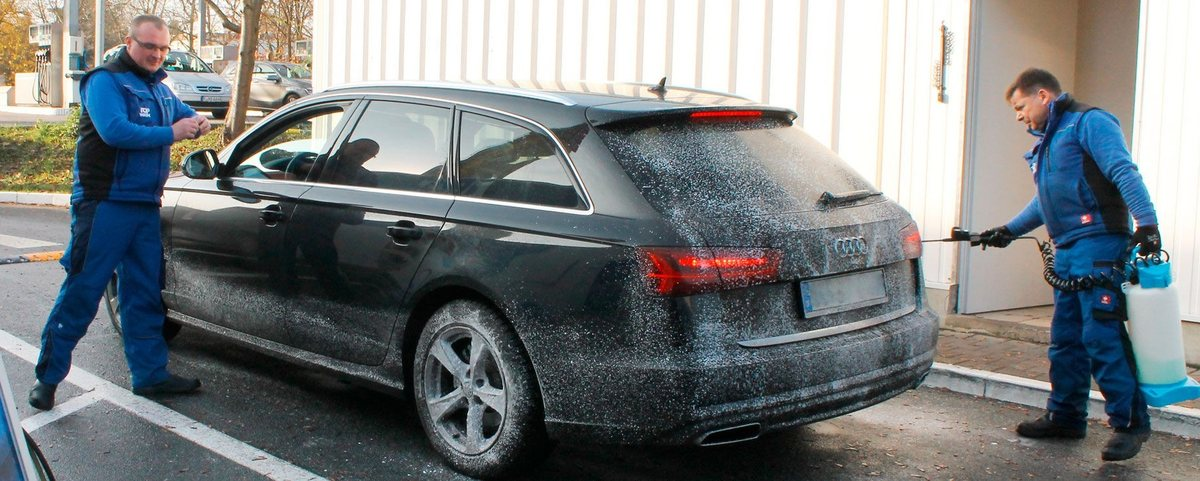
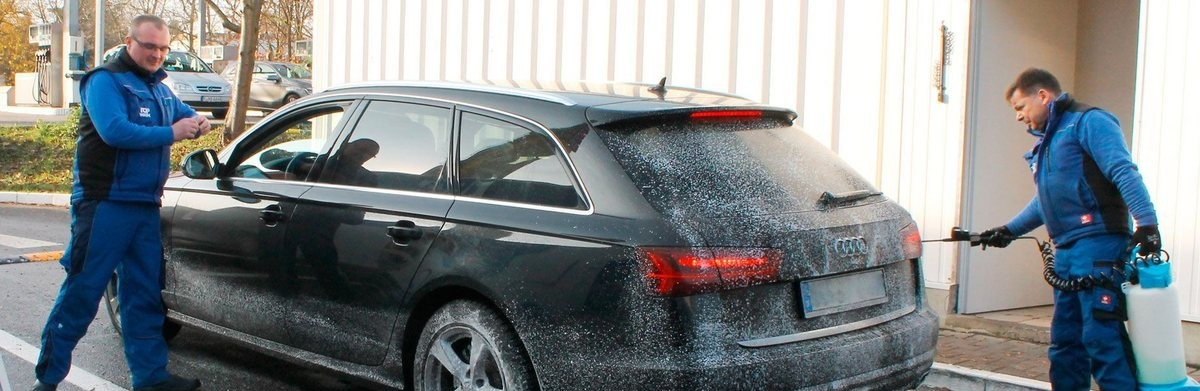
Hero-Bild vorbehandlung-aussen.jpg: Bildschirmfoto-Artefakt weggeschnitten
Nutzer meldete per Mobil-Screenshot ein gesprenkeltes Moiré-Muster im
unteren Bildbereich (Asphalt unterhalb des Fahrzeugs), erkennbar als
Bildschirmfotografie statt Originaldatei. Artefakt war auf die
untersten 90 der 481 Bildzeilen begrenzt -- diese entfernt
(1200x481 -> 1200x391), Rest des Fotos unverändert. Unkritisch für
den Hero-Slider, da object-cover in festem Container jedes
Seitenverhältnis handhabt.

diff --git a/CLAUDE-BRIEFING.md b/CLAUDE-BRIEFING.md
@@ -93,3 +93,4 @@ Alle während der Umsetzung gemachten Fehler hier unten fortlaufend eintragen (V
 - **Nachgereichter Artikeltext als neuer Blogbeitrag umgesetzt — „Testsieger"-Behauptung vor Veröffentlichung per `AskUserQuestion` geprüft und vorerst entfernt**: Nutzer schickte den in einem vorherigen PR angekündigten, fertig formulierten Werbetext („Glanz und Werterhalt durch professionelle Autopflege bei TOP WASH") nach. Da der Text vom Auftraggeber selbst für dieses Projekt verfasst/beauftragt wurde (nicht von der echten top-wash.de kopiert), gilt hier nicht die sonst übliche Pflicht zur Neuformulierung aus Copyright-Gründen — wohl aber weiterhin die Pflicht, Tatsachenbehauptungen zu prüfen. Der Satz „TOP WASH eine Lösung in Testsieger-Qualität" behauptet einen konkreten, benennbaren Test/eine Auszeichnung, ohne eine Quelle zu nennen — eine unbelegte „Testsieger"-Aussage ist in Deutschland potenziell irreführende Werbung (UWG) und damit ein echtes rechtliches Risiko für den echten Geschäftsbetrieb, nicht nur eine Stilfrage. Vor der Veröffentlichung per `AskUserQuestion` nachgefragt, ob eine konkrete Quelle existiert. Nutzer bestätigte, dass es eine gibt, wollte sie aber separat nachreichen. Da die Quelle zum Zeitpunkt der Veröffentlichung noch nicht vorlag, wurde die „Testsieger"-Formulierung durch die unverfängliche Formulierung „Premiumqualität" ersetzt statt die Behauptung unbelegt zu veröffentlichen und später zu korrigieren — im README als offener Punkt markiert, sobald die Quelle vorliegt kann „Testsieger" mit Beleg (Name, Jahr, Aussteller) ergänzt werden. Die übrigen Fakten (Ablauf, Standorte, vier SB-Waschboxen in Bad Nauheim) wurden gegen bereits im Repo bestätigte Fakten geprüft, waren konsistent bzw. wurden vom Auftraggeber direkt als neue Fakten bestätigt (Anzahl SB-Waschboxen war bisher nicht beziffert — jetzt sowohl im neuen Beitrag als auch rückwirkend im bestehenden `blog/sb-waschplaetze-bad-nauheim.html` ergänzt, für Konsistenz zwischen beiden Seiten). Neuer Beitrag `blog/glanz-werterhalt-autopflege.html` nach dem Muster von `die-top-wash-formel.html` angelegt (OG-Tags, `BlogPosting`-JSON-LD, Cross-Links zu den bereits bestehenden Lotus- und SB-Waschboxen-Beiträgen). Der in einem vorherigen PR offen gelassene „Vorschau-Artikel im Header-Bereich"-Wunsch damit erfüllt: der Hero-Teaser-Link auf `index.html` (bisher auf den Pillar-Beitrag zeigend) wurde auf den neuen, jetzt aktuelleren Beitrag umgestellt; im Pillar-Beitrag selbst dafür ein Rücklink auf den neuen Beitrag ergänzt, damit der bisherige Pillar-Beitrag trotz getauschtem Hero-Teaser weiterhin von der Startseite aus über einen Klick erreichbar bleibt. `sitemap.xml` ergänzt. Lehre: bei einer vom Auftraggeber selbst gelieferten Werbeaussage die inhaltliche Prüfungspflicht (insb. beweispflichtige Werbe-Superlative wie „Testsieger", „Nr. 1", „meistverkauft") nicht mit der Herkunftsprüfung (Copyright/Verbatim-Kopie) verwechseln — beide sind unabhängig voneinander zu prüfen, auch wenn der Text vom Kunden selbst kommt.
 - **Testsieger-Quelle nachgereicht: 2 Screenshots der echten top-wash.de-Seite — Anspruch präzisiert statt pauschal übernommen**: Nutzer schickte als Beleg für die zuvor zurückgestellte „Testsieger"-Aussage zwei Screenshots der echten, live top-wash.de-Seite (URL-Leiste sichtbar): ein rotes Banner „hr Testsieger — Test „Textile Autowaschstraßen" April 2016" und ein gelbes Banner „ADAC — Test Waschstraßen — TOP WASH: GUT" (Jahr für den ADAC-Test laut Nutzer nicht bekannt/nicht auf dem Screenshot sichtbar). Wichtig beim Einbauen: die zwei Auszeichnungen sind NICHT austauschbar — nur der hr-Test verwendet das Wort „Testsieger" (1. Platz), der ADAC-Banner zeigt lediglich die Note „GUT", nicht „Sieger". Beim Einbau in `blog/glanz-werterhalt-autopflege.html` entsprechend differenziert formuliert („wurde TOP WASH Testsieger" nur für den hr-Test mit Datum, „mit der Note „Gut" bewertet" für den ADAC-Test ohne Jahr) statt beide pauschal als „Testsieger" zusammenzufassen. Beim Recherchieren der bestehenden Seite festgestellt: „hr Testsieger „Textile Autowaschstraßen"" und „ADAC Test Waschstraßen: GUT" waren bereits an mehreren Stellen im Repo bestätigt und live (Hero-Badges auf `index.html`, VERTRAUEN-Sektion auf `angebote.html`, Meta-Description) — nur das genaue Datum (April 2016) für den hr-Test war neu. Der zuvor zurückgestellte „Testsieger"-Absatz in `glanz-werterhalt-autopflege.html` durch einen eigenen Abschnitt „Ausgezeichnete Qualität" mit beiden korrekt zugeordneten Auszeichnungen ersetzt; README-Eintrag von „offener Punkt vor Livegang" auf „gelöst" aktualisiert. Bewusst NICHT umgesetzt: eine grafische Nachbildung der „hr Testsieger"- und „ADAC"-Banner-Grafiken (wie auf den Screenshots zu sehen) — das wären fremde Marken/Logos (hr, ADAC), deren Nutzungsrechte für diesen Rebuild nicht bestätigt sind; stattdessen bewusst nur die Tatsachenbehauptung in Textform verwendet, wie es die bereits bestehenden Text-Badges auf `index.html`/`angebote.html` auch schon tun. Lehre: bei zwei ähnlichen, aber unterschiedlichen Auszeichnungen (Testsieger vs. Testnote) nicht vereinfachend zusammenfassen — jede Auszeichnung braucht ihre eigene, exakt zutreffende Formulierung, sonst wird aus einer korrekten Einzelaussage eine übertriebene Gesamtaussage.
 - **14 Piktogramme „Vor der Einfahrt: bitte beachten" als neue Startseiten-Sektion eingebaut**: Nutzer übergab fertigen Inline-SVG-Code für 14 Fahrzeug-Vorbereitungs-Piktogramme (Scheibenwischer aus, Assistenzsysteme aus, Antenne einfahren, Tankklappe schließen, Dachträger entfernen, Fenster/Schiebedach geschlossen, Außenspiegel einklappen, Gang „N", Handbremse lösen, Nicht bremsen, Lenkrad nicht festhalten, Motor nicht ausschalten, Vorschäden/Hochglanzfelgen melden) mit Verweis auf einen Bereich „Vor der Einfahrt: bitte beachten". Vor dem Einbau geprüft, ob bereits vergleichbarer Inhalt existiert: `agb.html` § 3 „Mitwirkungspflichten des Kunden" enthält bereits eine rechtlich formulierte 4-Punkte-Liste mit denselben Kerninhalten (lose Anbauteile entfernen, Fenster/Schiebedach schließen, Spiegel einklappen, Vorschäden melden) — die neuen 14 Piktogramme sind eine detailliertere, bildbasierte Ergänzung dafür, kein Widerspruch, da sie inhaltlich konsistent sind (nur granularer). Als neue Sektion `#vor-der-einfahrt` auf `index.html` zwischen den bestehenden „3 Vorteile"-Kacheln und der „So läuft Ihre Wäsche ab"-Sektion eingefügt (Kacheln-Grid, 2–7 Spalten je nach Breite, jedes Icon mit kurzer Textbeschriftung, da reine Piktogramme ohne Label nicht barrierefrei/eindeutig genug wären). SVG-Code unverändert aus der Nutzer-Vorlage übernommen (Farben #000/#e00 wie vom Nutzer definiert beibehalten, nicht ans Marken-Blau angepasst, da es sich um eine funktionale Warnfarben-Konvention handelt, keine reine Stilfrage). Anker-Verlinkung ergänzt: `agb.html`s § 3 bekam eine `id="mitwirkungspflichten"`, die neue Sektion verlinkt von dort „vollständige Regelungen"; umgekehrt verlinkt die bestehende FAQ-Frage „Muss ich während der Wäsche im Fahrzeug sitzen bleiben?" jetzt auf die neue Checkliste. `#vor-der-einfahrt` zur `scroll-margin-top`-Anker-Liste ergänzt (gleiche sticky-Header-Korrektur wie die übrigen Startseiten-Sektionen). Mit Playwright verifiziert: alle 14 SVGs rendern, Anker-Navigation von FAQ und AGB funktioniert. Lehre: bevor ein vom Nutzer geliefertes Inhalts-Paket unreflektiert als komplett neue Sektion eingefügt wird, erst prüfen, ob es bereits eine inhaltlich verwandte Stelle im Repo gibt (hier: AGB § 3) — nicht um Duplikate zu vermeiden, sondern um sicherzustellen, dass beide Stellen sich ergänzen statt zu widersprechen, und um sie ggf. zu verlinken.
+- **Hero-Bild `vorbehandlung-aussen.jpg` unten zugeschnitten — sichtbares Bildschirmfoto-Artefakt entfernt**: Nutzer meldete per Mobil-Screenshot, dass im ersten Hero-Slide (Audi-Kombi bei der Vorbehandlung) der untere Bildbereich ein gesprenkeltes Muster zeigt, das erkennbar macht, dass das Foto von einem Bildschirm/Ausdruck abfotografiert wurde, statt ein original-digitales Foto zu sein (typisches Moiré-/Raster-Artefakt). Bild lokal geprüft: das Artefakt ist im Quellbild selbst vorhanden, konzentriert auf den untersten ca. 90 der 481 Bildzeilen (Asphaltbereich unterhalb des Fahrzeugs) — kein CSS-/Crop-Effekt der Website, sondern Teil der Bilddatei. Da eine Nachbearbeitung des Artefakts selbst (Entrastern) außerhalb dessen liegt, was zuverlässig ohne Bildqualitätsverlust möglich ist, stattdessen wie vom Nutzer vorgeschlagen zugeschnitten: unterste 90 Pixelzeilen entfernt (1200×481 → 1200×391), mit mehreren Zuschnitt-Varianten (60/90/120 px) verglichen, 90 px liefert das beste Verhältnis aus vollständig entferntem Artefakt und maximal erhaltenem Bildausschnitt (Personen, Fahrzeug, Sprühgerät bleiben vollständig sichtbar, nur die Fußspitzen werden leicht abgeschnitten). Da das Bild im Hero-Slider mit `object-cover` in einem festen Container (`h-72`/`h-96`) eingebunden ist, ist die Änderung des Seitenverhältnisses unkritisch — kein HTML/CSS musste angepasst werden, nur die Bilddatei selbst ersetzt. Mit Playwright verifiziert: Bild lädt weiterhin korrekt, neue Maße (1200×391) im DOM sichtbar. Lehre: bei einem als „Bildschirmfotografie erkennbar" gemeldeten Bildfehler ist der Fehler typischerweise nicht gleichmäßig über das ganze Bild verteilt, sondern lokal begrenzt (hier: nur der Asphalt-Bereich am unteren Rand) — vor einer Korrektur den betroffenen Bildbereich genau eingrenzen (z. B. durch Ausschnitts-Vergrößerung), statt das ganze Bild zu ersetzen oder pauschal zu bearbeiten.

diff --git a/README.md b/README.md
@@ -75,6 +75,10 @@ Breite verkleinert, um Ladezeit gering zu halten:
 - `images/handvorwaesche-team.jpg` – zwei Mitarbeiter bei der Handvorwäsche → ersetzt das Stock-Foto in der
   Prozess-Sektion „Handvorwäsche in drei Schritten" auf `index.html`.
 - `images/vorbehandlung-aussen.jpg` – Vorbehandlung eines Fahrzeugs im Freien → Hero-Bild 1 auf `index.html`.
+  **Nachträglich zugeschnitten**: Nutzer meldete ein im unteren Bildbereich sichtbares Bildschirmfoto-/Moiré-Artefakt
+  (Asphaltfläche unterhalb des Fahrzeugs) — entgegen der ursprünglichen Annahme oben war dieses eine Bild also doch
+  von einem Bildschirm/Ausdruck abfotografiert. Unterste 90 der ursprünglich 481 Bildzeilen entfernt (1200×481 →
+  1200×391); das Artefakt war lokal auf diesen Bereich begrenzt, der Rest des Fotos ist unverändert.
 - `images/hochdruck-felgenreinigung.jpg` – Felgenreinigung mit Hochdruckreiniger → Hero-Bild 2 auf `index.html`.
 
 Zusätzlich lieferte der Auftraggeber 9 Standbilder aus einem eigenen Video (mit Letterbox-Balken, teils
